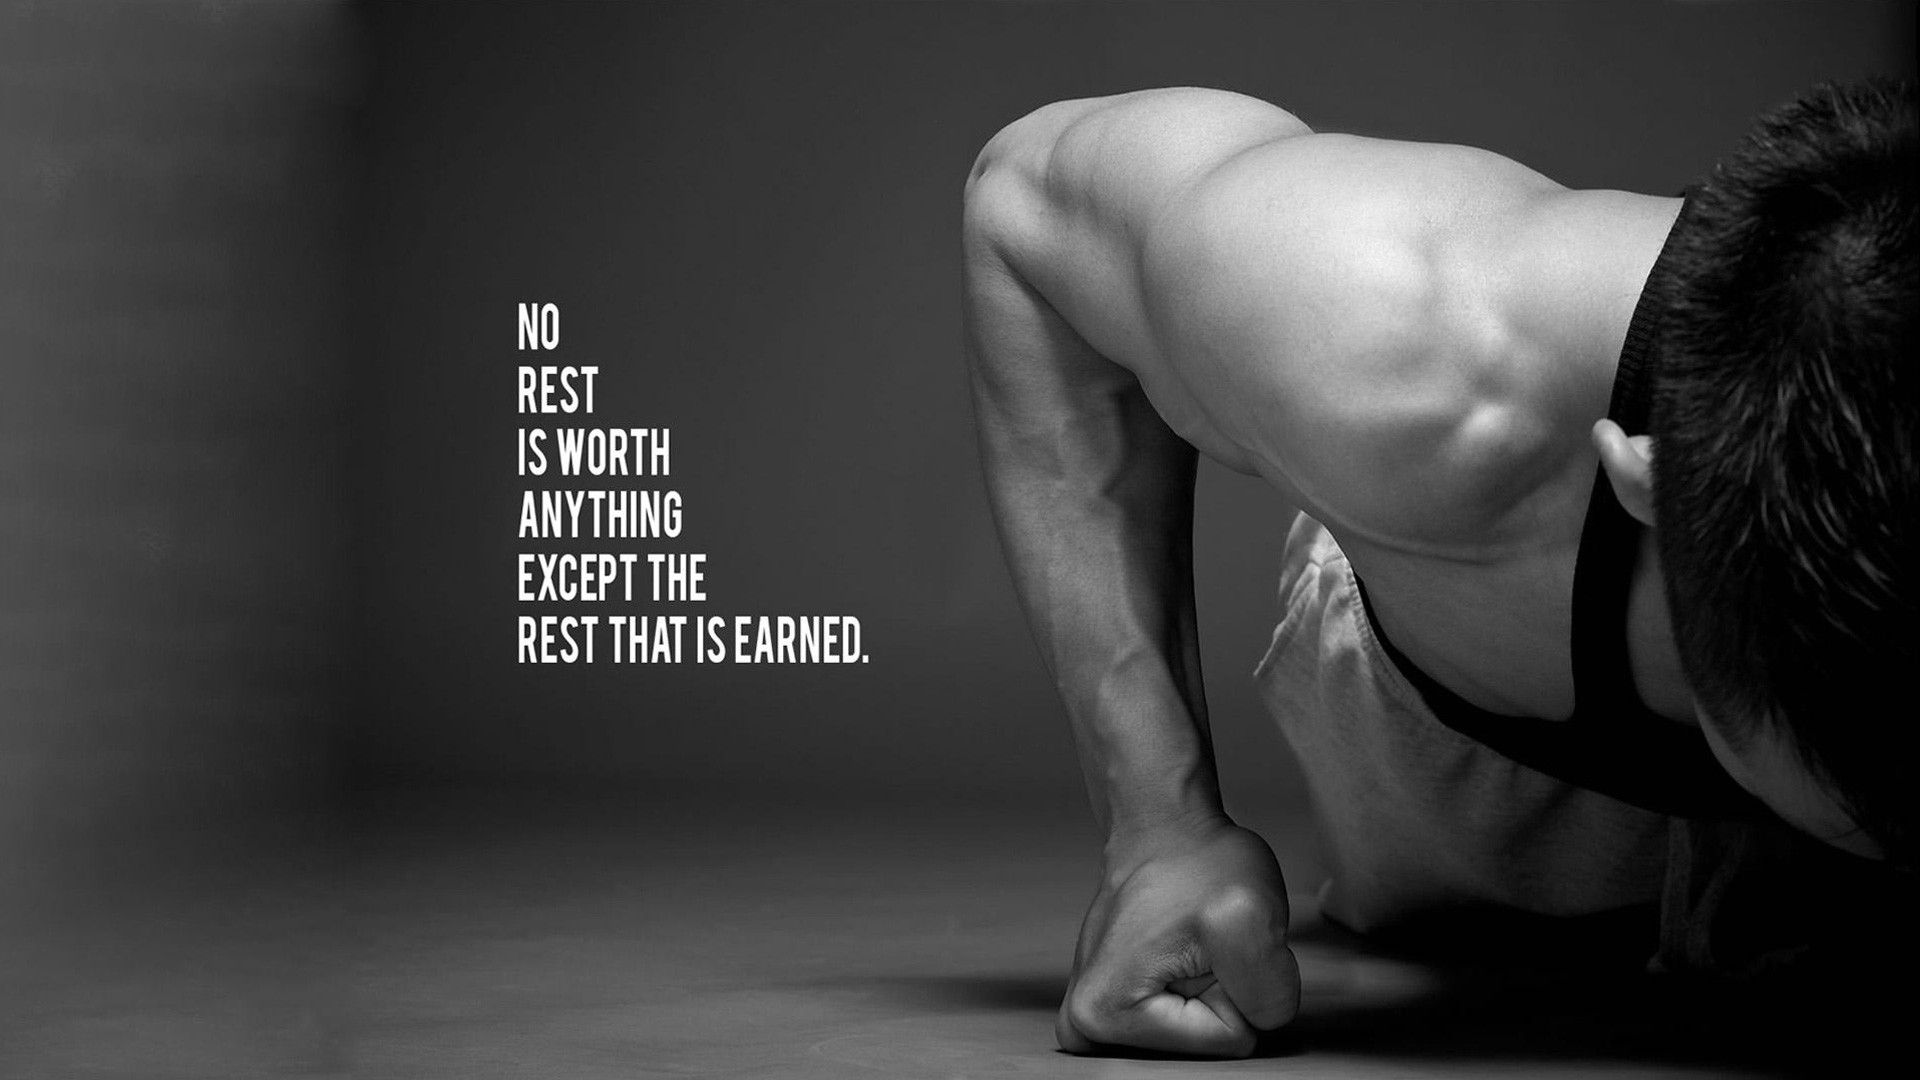
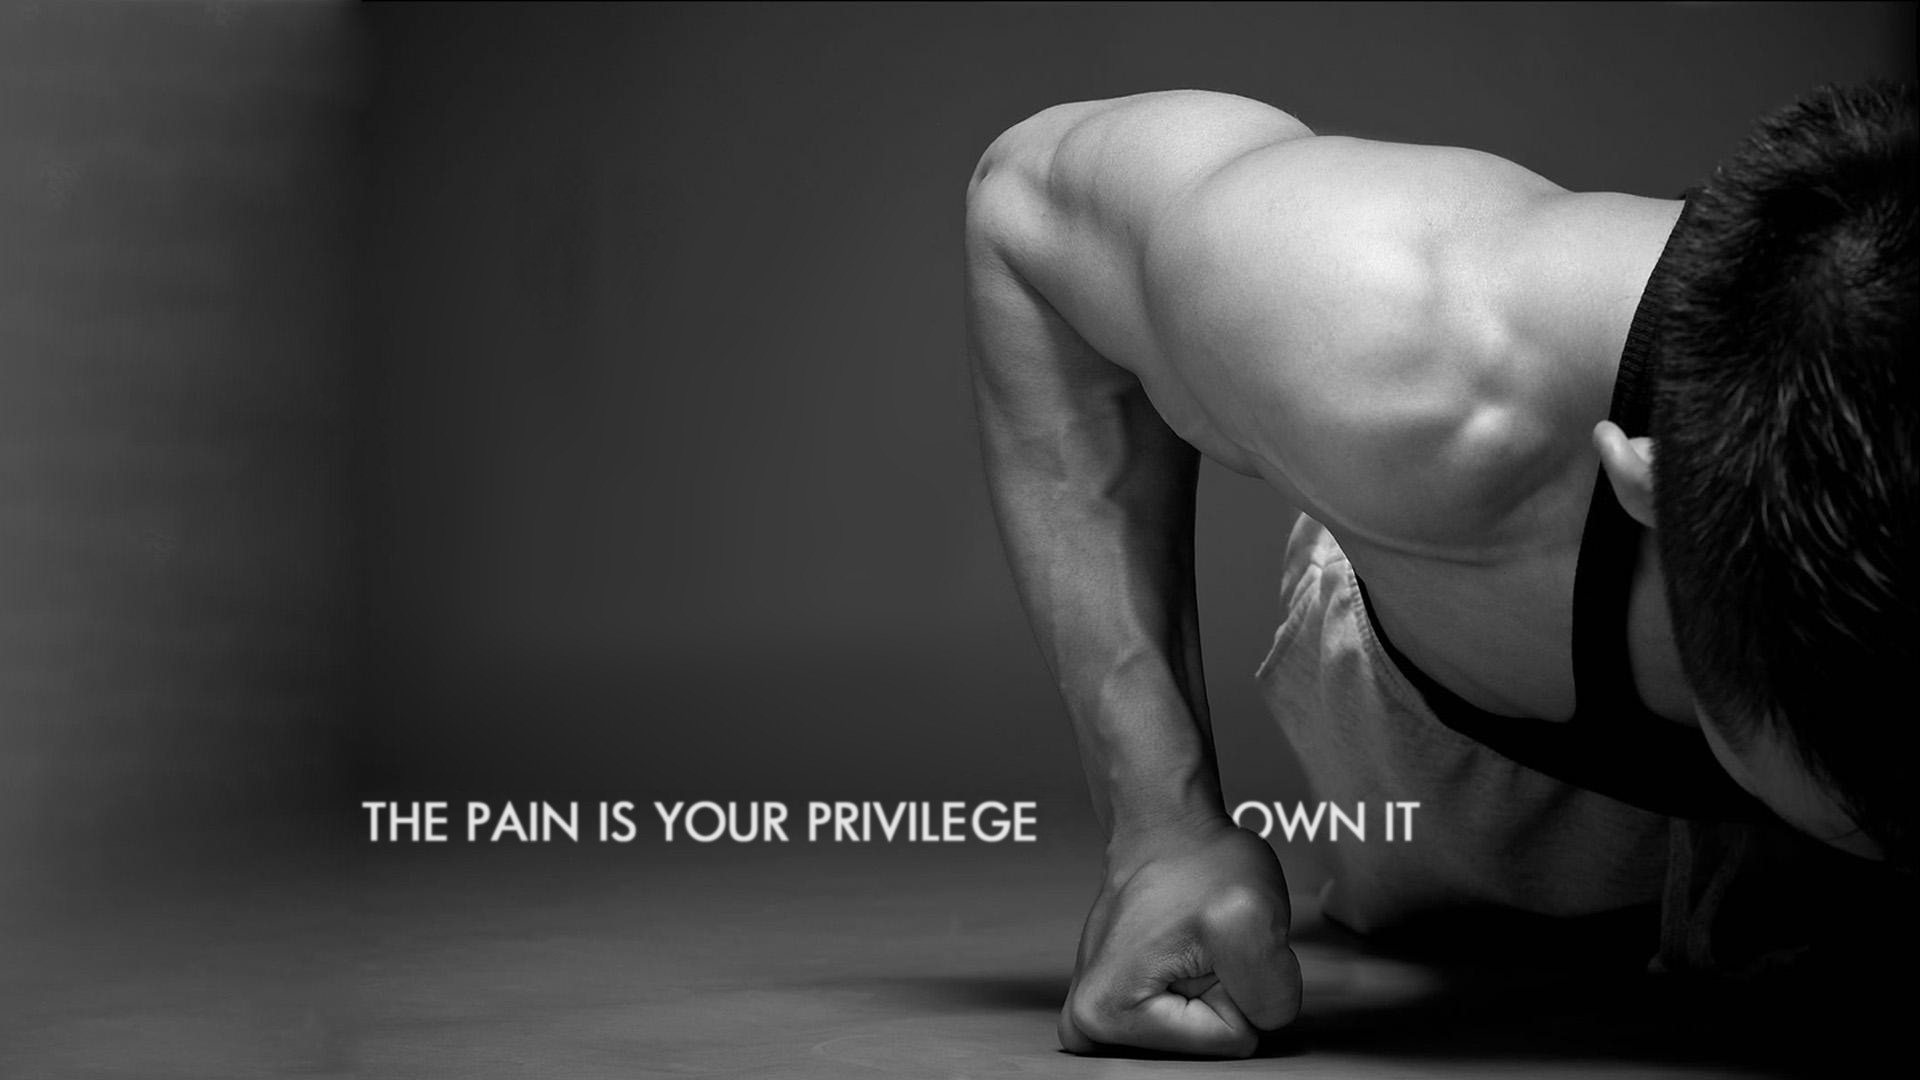
displays different background image

diff --git a/src/containers/Home.js b/src/containers/Home.js
@@ -3,7 +3,11 @@ import './Home.css'
 
 class Home extends React.Component {
     render() {
-        return <h1>Home!</h1>
+        return (
+        <div>
+            <h1>Home</h1>
+        </div>
+        )
     }
 }
 

diff --git a/src/containers/About.js b/src/containers/About.js
@@ -1,4 +1,5 @@
 import React from 'react'
+import './About.css'
 
 class About extends React.Component {
     render() {

diff --git a/src/containers/Home.css b/src/containers/Home.css
@@ -1,3 +1,3 @@
 body {
-    background-image: url('../images/wo.jpg');
+    background-image: url('../images/wo.jpg')
 }
